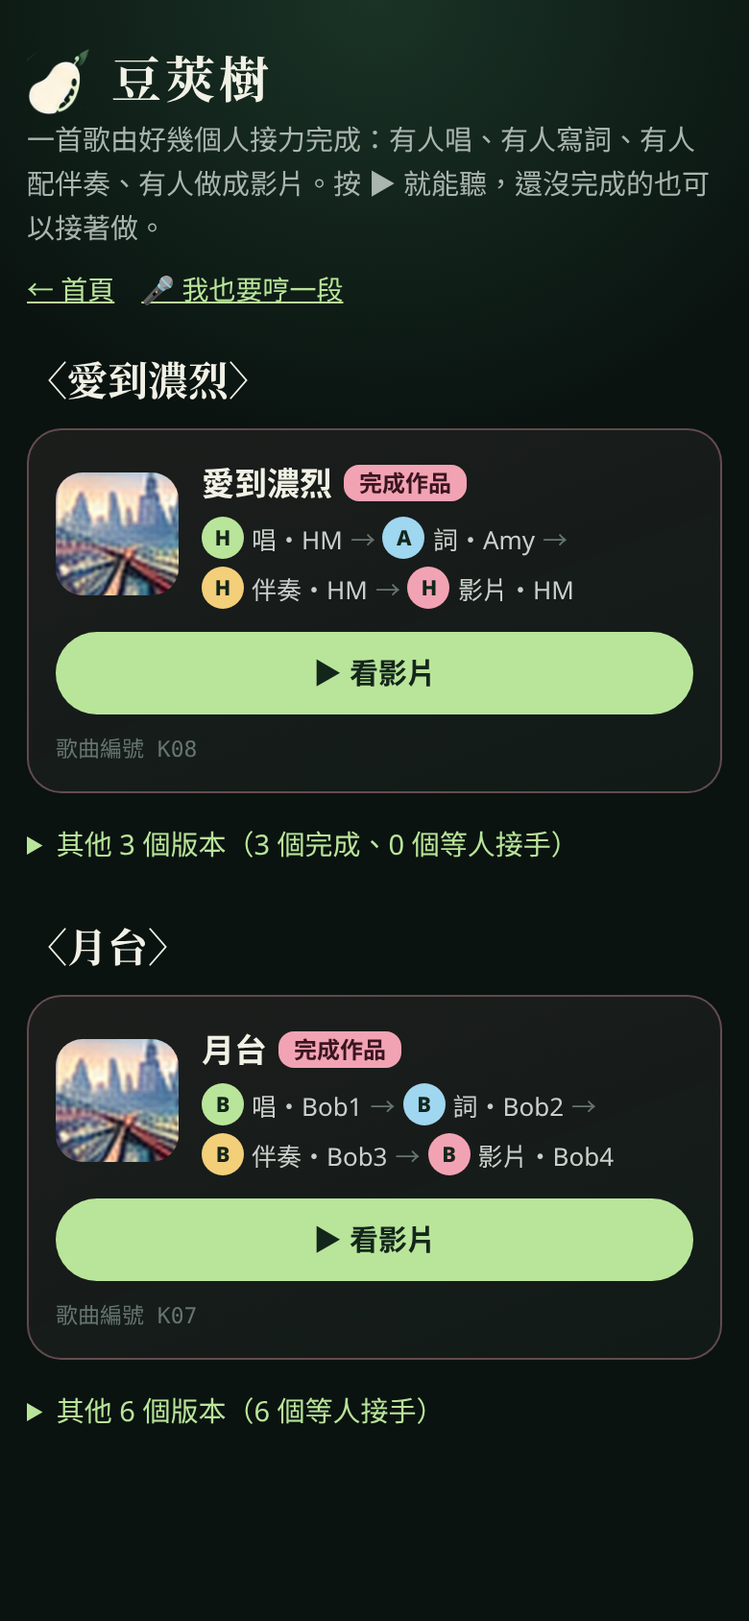
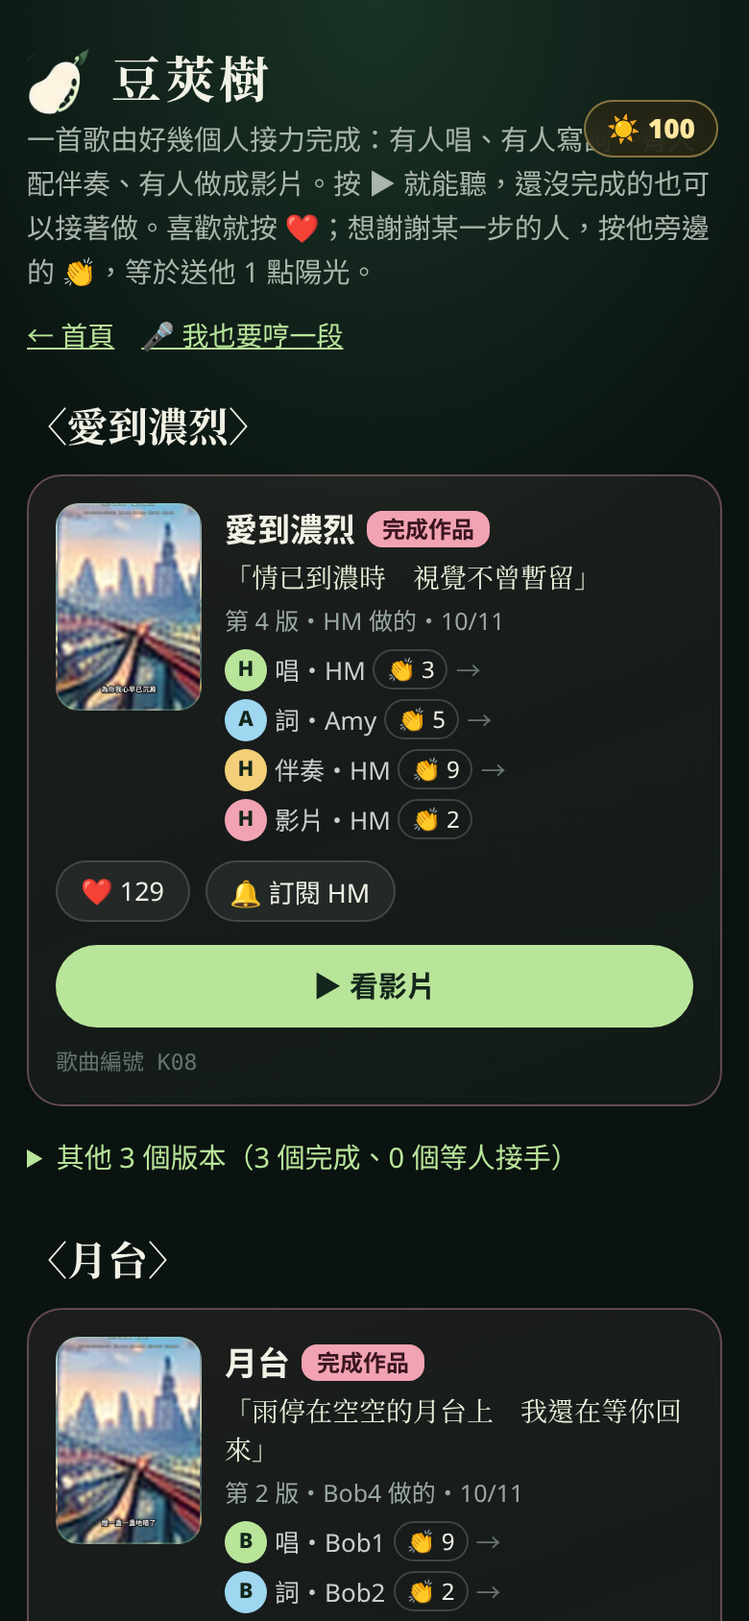
UX finetune round 2 (SD)

diff --git a/voice-ux-finetune/app/index.html b/voice-ux-finetune/app/index.html
@@ -211,7 +211,17 @@ details[open] summary .car{transform:rotate(90deg)}
 button:disabled{opacity:.4}
 .tab .tl{display:none}
 html,body{overflow-x:hidden}#app{overflow:hidden;overflow:clip}
-#v-onboard .logo .t{font-size:26px;white-space:nowrap}
+#v-onboard .logo .t{font-size:26px;white-space:nowrap}#v-onboard .logo{right:110px}
+.share{display:grid;grid-template-columns:repeat(4,1fr);gap:14px 6px;margin-top:4px}
+.sh{display:flex;flex-direction:column;align-items:center;gap:6px;font-size:11.5px;color:#D6DDD8}
+.sh i{width:48px;height:48px;border-radius:50%;display:flex;align-items:center;justify-content:center;font-style:normal;font-weight:800;font-size:15px;color:#fff;box-shadow:0 0 0 2px rgba(185,229,154,.18)}
+.wmprev{display:flex;gap:12px;align-items:center;margin-top:14px;padding:10px;border-radius:14px;background:rgba(185,229,154,.06);border:1px solid rgba(185,229,154,.2)}
+.wmv{width:74px;height:132px;border-radius:10px;flex:none;position:relative;overflow:hidden;background:#1d2a22 center/cover}
+.wmv .strip{position:absolute;top:0;left:0;right:0;background:rgba(0,0,0,.55);font-size:6.5px;line-height:1.3;padding:2px 3px;color:#fff;white-space:nowrap;overflow:hidden}
+.wmv .qr{position:absolute;right:4px;bottom:4px;width:20px;height:20px;background:#fff;border:3px solid #fff;background-image:repeating-linear-gradient(90deg,#000 0 3px,#fff 3px 5px),repeating-linear-gradient(0deg,#000 0 3px,#fff 3px 6px);background-blend-mode:multiply}
+.sunchip{border-color:rgba(255,214,120,.45)!important;color:#FFE7A0;font-weight:700;background:rgba(40,36,16,.6)!important}
+.stats{display:flex;gap:8px;margin-top:10px;flex-wrap:wrap}.stats span{font-size:13px;padding:5px 10px;border-radius:14px;background:rgba(255,255,255,.05);border:1px solid var(--bd)}
+.recent{display:flex;flex-direction:column;gap:8px;font-size:13.5px}.recent div{display:flex;gap:8px;align-items:flex-start}.recent i{font-style:normal;width:22px;text-align:center}.recent small{color:var(--mute);margin-left:auto;white-space:nowrap}
 .sheet a.btn{color:var(--fg)}
 .empty{text-align:center;padding:22px 16px;border:1px dashed rgba(185,229,154,.35);border-radius:18px;margin-top:12px;background:rgba(185,229,154,.05)}
 .empty .e-ic{font-size:34px}.empty .e-t{font-size:17px;font-weight:700;margin:6px 0 4px}.empty .e-s{font-size:14px;color:var(--mute);margin-bottom:12px;line-height:1.6}
@@ -411,12 +421,24 @@ html,body{overflow-x:hidden}#app{overflow:hidden;overflow:clip}
     </div>
    </div>
       <div class="card" id="shareCard">
-    <div class="sec">分享到短影音</div>
-    <div class="sub" style="font-size:13.5px;margin:0">影片上方會有「哼哼」小字和作品連結，片尾有 QR Code，看到的人可以點進來聽更多。</div>
-    <div class="shares" id="shares"><button class="shr" data-shr="tiktok"><b>🎵</b>抖音／TikTok</button><button class="shr" data-shr="reels"><b>📸</b>IG Reels</button><button class="shr" data-shr="shorts"><b>▶</b>YT Shorts</button><button class="shr" data-shr="line"><b>💬</b>LINE</button><button class="shr" data-shr="copy"><b>🔗</b>複製連結</button><button class="shr" data-shr="land"><b>👀</b>預覽作品頁</button></div>
+        <div class="sec">分享到</div>
+    <div class="share" id="shares">
+     <button class="sh" data-shr="line"><i style="background:#06C755">LINE</i>LINE</button>
+     <button class="sh" data-shr="ig"><i style="background:radial-gradient(circle at 30% 110%,#FFD776,#F3574F 45%,#C33DA7 70%,#6A4BD8)"><svg width="22" height="22" viewBox="0 0 24 24" fill="none" stroke="#fff" stroke-width="2"><rect x="3.5" y="3.5" width="17" height="17" rx="5"/><circle cx="12" cy="12" r="4"/><circle cx="17.2" cy="6.8" r="1" fill="#fff"/></svg></i>Instagram</button>
+     <button class="sh" data-shr="threads"><i style="background:#111;border:1px solid #333;font-size:22px">@</i>Threads</button>
+     <button class="sh" data-shr="fb"><i style="background:#1877F2;font-size:24px;font-family:Arial">f</i>Facebook</button>
+     <button class="sh" data-shr="x"><i style="background:#111;border:1px solid #333;font-size:18px;font-family:Arial">𝕏</i>X</button>
+     <button class="sh" data-shr="yt"><i style="background:#FF0033"><svg width="20" height="20" viewBox="0 0 24 24"><path d="M8 5.5v13l11-6.5z" fill="#fff"/></svg></i>YouTube</button>
+     <button class="sh" data-shr="copy"><i style="background:rgba(255,255,255,.1);border:1px solid rgba(255,255,255,.2)"><svg width="20" height="20" viewBox="0 0 24 24" fill="none" stroke="#fff" stroke-width="2" stroke-linecap="round"><path d="M10 14a4 4 0 0 0 5.7 0l3-3a4 4 0 0 0-5.7-5.7l-1 1M14 10a4 4 0 0 0-5.7 0l-3 3a4 4 0 0 0 5.7 5.7l1-1"/></svg></i>複製連結</button>
+     <button class="sh" data-shr="land"><i style="background:rgba(185,229,154,.12);border:1px solid rgba(185,229,154,.4);font-size:18px">👀</i>預覽分享頁</button>
+    </div>
+    <div class="note"><span>🔗</span><span>分享連結會打開作品頁，大家可以聽更多。</span></div>
+    <div class="note"><span>ⓘ</span><span>第一次分享到 IG / Threads / FB / X / YouTube 會請你連結帳號，只需要一次。</span></div>
+    <div class="wmprev"><div class="wmv" style="background-image:url(img/th1.jpg)"><div class="strip" data-wm>哼哼・豆莢浪歌</div><div class="qr"></div></div><div style="font-size:12.5px;color:#C9D0CB;line-height:1.6"><b style="color:var(--fg)">浮水印預覽</b><br>上方細條：哼哼＋原唱＋成品＋作品連結<br>片尾 2 秒：放大 QR Code「掃碼聽更多」</div></div>
+    <div class="stats" id="songStats"><span>❤ 0 位聽眾</span><span>👏 0 位創作者</span><span>🔔 0 人訂閱你</span></div>
     <button class="btn mint" id="publish" style="height:54px;margin-top:14px">🌱 發布到豆莢樹</button>
     <div class="note" style="font-size:12px"><span>ⓘ</span><span>測試版：發布會先把作品存到你的手機。</span></div>
-    <details><summary><span class="car">›</span>參與的人</summary><div class="credits" id="credits"></div></details>
+    <div class="credits" id="credits"></div>
    </div>
   </div>
  </section>
@@ -448,9 +470,17 @@ html,body{overflow-x:hidden}#app{overflow:hidden;overflow:clip}
  <!-- 我的豆莢 panel -->
  <div class="panel" id="panel"><div class="sheet">
   <div style="display:flex;justify-content:space-between;align-items:center"><div class="h1" style="font-size:22px">我的豆莢</div><button class="back" id="closePanel" style="width:32px;height:32px"><svg width="20" height="20" viewBox="0 0 24 24" fill="none" stroke="#F1F1E6" stroke-width="2" stroke-linecap="round"><path d="M6 6l12 12M18 6L6 18"/></svg></button></div>
-    <div class="card"><div class="sec">☀ 陽光 <b id="sunN" style="color:#FFE7A0;font-size:20px">100</b><span class="r" style="font-size:12px;color:var(--mute)">創作、幫別人都會得到</span></div>
+    <div class="card"><div class="sec">☀ 陽光 <b id="sunN" class="sunv" style="color:#FFE7A0;font-size:20px">100</b><button class="r link" data-sun style="font-size:12px;color:var(--mute)">這是什麼？</button></div>
    <div style="font-size:14px">目前等級：<b id="lvlName" style="color:#DDF2CC">豆子</b></div>
    <div class="lvl" id="lvl"><span class="on">豆子</span><span>豆苗</span><span>豆藤</span><span>豆莢</span><span>天空之藤</span></div></div>
+    <button class="mini" id="certDemo" style="margin-top:8px">🎓 看升級證書示範</button>
+  <div class="card"><div class="sec">最近獲得</div><div class="recent" id="recent">
+   <div><i>❤</i><span>有 12 位聽眾喜歡〈夏天的味道〉</span><small>今天</small></div>
+   <div><i>👏</i><span>阿米 給你的「唱」拍手</span><small>今天</small></div>
+   <div><i>🔔</i><span>豆豆 訂閱了你</span><small>昨天</small></div>
+   <div><i>☀</i><span>幫〈月台〉寫詞 +10 陽光</span><small>昨天</small></div>
+   <div><i>☀</i><span>新朋友見面禮 +100 陽光</span><small>10/10</small></div></div>
+   <div class="stats"><span>❤ 230</span><span>👏 18</span><span>🔔 5 人訂閱</span></div></div>
   <div class="ptabs"><button class="on" data-pt="mine">我的作品</button><button data-pt="help">我幫過的</button></div>
   <div class="card" id="ptMine"><div class="sec">這首歌的進度</div><div id="pState" style="font-size:15px;line-height:1.9"></div></div>
   <div class="card hidden" id="ptHelp"><div class="empty" style="margin:0"><div class="e-ic">🤝</div><div class="e-t">還沒有幫過別人</div><div class="e-s">去豆莢樹找一首還沒完成的歌，幫忙寫詞或配伴奏，可以得到陽光。</div></div></div>
@@ -464,7 +494,7 @@ html,body{overflow-x:hidden}#app{overflow:hidden;overflow:clip}
 
 <script src="https://cdn.jsdelivr.net/npm/tone@14.8.49/build/Tone.js"></script>
 <script src="https://cdn.jsdelivr.net/npm/@tonejs/midi@2.0.28/build/Midi.js"></script>
-<script src="v60core.js"></script><script src="accompcore.js"></script><script src="denoise.js"></script><script src="align.js"></script>
+<script src="reward.js"></script><script src="v60core.js"></script><script src="accompcore.js"></script><script src="denoise.js"></script><script src="align.js"></script>
 <script>
 /* 豆莢浪歌 app — real functions wired into the UX shell */
 const $=s=>document.querySelector(s), $$=s=>[...document.querySelectorAll(s)];
@@ -485,9 +515,9 @@ const BEAN='<svg class="bean" viewBox="0 0 46 50"><defs><radialGradient id="bg" 
 $('#tabbar').innerHTML=ICONS.map((ic,i)=>`<button class="tab" data-tab="${i}" aria-label="${LBL[i]}">${BEAN}<span class="ring"><span class="ic" style="width:24px;height:24px">${ic}</span></span><span class="badge"></span></button>`).join('');
 $$('.tab').forEach(b=>b.onclick=()=>go(+b.dataset.tab));
 function toast(t,ms=2400){const e=$('#toast');e.textContent=t;e.classList.add('on');clearTimeout(e._t);e._t=setTimeout(()=>e.classList.remove('on'),ms)}
-function show(id){$$('.view').forEach(v=>v.classList.toggle('on',v.id==='v-'+id));S.view=id;$('#tabbar').style.display=(id==='landing')?'none':'flex'}
+function show(id){$$('.view').forEach(v=>v.classList.toggle('on',v.id==='v-'+id));S.view=id;$$('.sunb').forEach(b=>b.classList.toggle('hidden',id!=='onboard'));$('#tabbar').style.display=(id==='landing')?'none':'flex'}
 function go(i){stopAll();S.bean=i;show('b'+(i+1));syncTabs();emptyStates();if(i===3)checkGate();if(i===1)phInfo();credits()}
-function syncTabs(){$$('.tab').forEach((t,i)=>{t.classList.toggle('on',S.view!=='onboard'?i===S.bean:i===0);t.classList.toggle('done',S.done[i]&&i!==S.bean)});panelState()}
+function syncTabs(){if(window.REWARD){S._got=S._got||[0,0,0,0];S.done.forEach((d,i)=>{if(d&&!S._got[i]){S._got[i]=1;if(S.view!=='onboard'&&!S._loading)REWARD.add(10,['完成「唱」','完成「詞」','完成「伴奏」','完成「影片」'][i])}})}$$('.tab').forEach((t,i)=>{t.classList.toggle('on',S.view!=='onboard'?i===S.bean:i===0);t.classList.toggle('done',S.done[i]&&i!==S.bean)});panelState()}
 function next(){if(S.bean===0&&S.notes)S.done[0]=true;if(S.bean<3)go(S.bean+1)}
 $$('[data-next]').forEach(b=>b.onclick=next);
 $$('[data-skip]').forEach(b=>b.onclick=()=>{toast('先跳過，之後你或別人都能補上');if(S.bean<3)go(S.bean+1)});
@@ -498,6 +528,10 @@ $('#panel').onclick=e=>{if(e.target.id==='panel')$('#panel').classList.remove('o
 function gateOk(){return S.done[0]&&S.done[2]&&(S.done[1]||S.noLyrics)}
 function panelState(){const e=$('#pState');if(!e)return;e.innerHTML=LBL.map((l,i)=>`${S.done[i]?'✅':'⬜'} ${l}${i===1&&S.noLyrics?'（只有哼，不用歌詞）':''}`).join('<br>')+(S.podBy?`<br>接手自：<b>${S.podBy}</b>`:'')}
 $$('[data-goto]').forEach(b=>b.onclick=()=>go(+b.dataset.goto));
+$$('.topbar > div').forEach(d=>d.insertAdjacentHTML('afterbegin','<button class="chip sunchip" data-sun>☀ <b class="sunv">100</b></button>'));
+REWARD.badge($('#app'));REWARD.onChange=()=>{const l=REWARD.level();$('#lvlName').textContent=REWARD.levels[l][0];$$('#lvl span').forEach((e,i)=>e.classList.toggle('on',i===l))};REWARD.sync();
+$('#certDemo').onclick=()=>REWARD.cert(1);
+function wmPrev(){$$('[data-wm]').forEach(e=>e.textContent=wmText())}
 $('#asrBtn').onclick=()=>{if(!S.raw){toast('要先有你唱的錄音，才能聽寫');return}toast('自動聽寫即將推出。聽寫結果可能不準，記得再修改',3500)};
 $$('.ptabs button').forEach(b=>b.onclick=()=>{$$('.ptabs button').forEach(x=>x.classList.toggle('on',x===b));$('#ptMine').classList.toggle('hidden',b.dataset.pt!=='mine');$('#ptHelp').classList.toggle('hidden',b.dataset.pt!=='help')});
 function emptyStates(){$('#b2empty').classList.toggle('hidden',!!S.notes);$('#b3empty').classList.toggle('hidden',!!S.notes)}
@@ -691,15 +725,15 @@ $('#makeVid').onclick=makeVideo;
 $('#dlVid').onclick=()=>S.videoBlob&&dlBlob(S.videoBlob,($('#title').value||'doujia')+'.'+S.videoExt);
 function creditList(){const c=[`♪〈${$('#title').value}〉`];c.push(`唱：${S.singer||S.name||'你'}`);if(S.align.length)c.push(`詞：${S.lyricist||S.name||'你'}`);if(S.acc)c.push(`伴奏：${S.accBy||S.name||'你'}`);c.push(`影片：${S.name||'你'}${S.vox==='resing'?'（重唱）':''}`);
  c.push('鋼琴音色：Salamander Grand Piano by Alexander Holm（CC BY 3.0）','殘響 IR：OpenAIR Library, St Patrick\'s Church Patrington（University of York, CC BY 4.0）','用 豆莢浪歌 製作');return c}
-function credits(){$('#credits').innerHTML=creditList().join(' ・ ')}
+function credits(){$('#credits').innerHTML=creditList().join(' ・ ');wmPrev()}
 credits();
 $('#publish').onclick=()=>{if(!S.videoBlob){toast('先做成影片');return}const pstep=S.podStep||0,pid=S.pod?S.pod+'-000'.repeat(Math.max(0,3-pstep))+'-'+ME.code:'K??-'+ME.code+'-000-000-'+ME.code;const pod={id:pid,display:pid.replace(/n(\d+)/g,'#$1'),note:'正式版由伺服器配發（同人同步驟第二版會變成 #2）',parent:S.pod||null,step:4,author:ME.code,authorName:S.name||'訪客',melody_start:S.offset,intro:{mode:S.introMode||'upload'},created:new Date().toISOString(),
  files:{video:'video.'+S.videoExt},notes:'由網頁發布（模擬）',credits:creditList(),lyrics:S.align,offset:S.offset,noLyrics:S.noLyrics};
  dlBlob(new Blob([JSON.stringify(pod,null,2)],{type:'application/json'}),'pod.json');dlBlob(S.videoBlob,'video.'+S.videoExt);toast('已發布！（測試版：作品先存到你的手機）')};
-const SHR={tiktok:'抖音／TikTok',reels:'IG Reels',shorts:'YouTube Shorts',line:'LINE'};
+const SHR={line:'LINE',ig:'Instagram',threads:'Threads',fb:'Facebook',x:'X',yt:'YouTube'};
 $$('[data-shr]').forEach(b=>b.onclick=async()=>{const k=b.dataset.shr,url='https://'+shortLink();if(k==='land'){show('landing');return}if(k==='copy'){try{await navigator.clipboard.writeText(url)}catch(e){}toast('連結已複製：'+url);return}
  if(!S.videoBlob){toast('先按「做成影片」，再分享');return}const file=new File([S.videoBlob],($('#title').value||'hum')+'.'+S.videoExt,{type:S.videoBlob.type});
- if(navigator.canShare&&navigator.canShare({files:[file]})){try{await navigator.share({files:[file],text:`我的新歌〈${$('#title').value}〉聽更多 → ${url}`});return}catch(e){}}dlBlob(S.videoBlob,file.name);toast(`影片已下載，打開 ${SHR[k]} 上傳就好，記得貼上連結 ${url}`,4000)});
+ if(navigator.canShare&&navigator.canShare({files:[file]})){try{await navigator.share({files:[file],text:`我的新歌〈${$('#title').value}〉聽更多 → ${url}`});return}catch(e){}}if(k!=='line'){toast(`第一次分享到 ${SHR[k]}：先連結帳號（只需一次）`,3000);return}dlBlob(S.videoBlob,file.name);toast(`影片已下載，貼到 LINE 時記得附上連結 ${url}`,4000)});
 let liked=false;$('#likeBtn').onclick=()=>{if(liked)return;liked=true;$('#likeBtn').classList.add('on');$('#likeN').textContent=231;$('#subAsk').classList.remove('hidden')};
 $('#subBtn').onclick=()=>{$('#subBtn').textContent='✓ 已訂閱，有新作會通知你';toast('之後取個名字就能收到通知')};
 $('#moreBtn').onclick=()=>location.href='tree.html';
@@ -709,7 +743,7 @@ $('#contSing').onclick=()=>{stopAll();S.name=S.name||'訪客';resetRec();$('#con
 /* ---- take over a pod from the tree: #pod=<path> ---- */
 async function loadPod(id){const chain=[];let cur=id;
  while(cur){const r=await fetch(`${PODS}${cur}/pod.json`);if(!r.ok)throw new Error('找不到這首歌，可能已經被移除');const p=await r.json();chain.unshift(p);cur=p.parent}
- S.pod=id;S.podChain=chain;S.podStep=chain[chain.length-1].step;S.name=S.name||ME.name||'訪客';S.podBy=chain.map(p=>p.authorName||'匿名').join('、');
+ S._loading=true;S.pod=id;S.podChain=chain;S.podStep=chain[chain.length-1].step;S.name=S.name||ME.name||'訪客';S.podBy=chain.map(p=>p.authorName||'匿名').join('、');
  for(const p of chain){const base=`${PODS}${p.id}/`,f=p.files||{};
   if(p.step===1){if(f.notes)setNotes(await (await fetch(base+f.notes)).json(),true);const au=f.denoised||f.audio;if(au){S.raw=await decode(await (await fetch(base+au)).arrayBuffer());S.useDn=false}S.done[0]=true;S.noLyrics=!!p.noLyrics;$('#b1nolyr').checked=S.noLyrics;S.singer=p.authorName||'匿名';recFinished();$('#b1t').textContent=`${S.singer} 唱的旋律`}
   if(p.step===2&&f.aligned){S.align=await (await fetch(base+f.aligned)).json();$('#lyrics').value=S.align.map(a=>a.text).join('\n');renderAlign();S.done[1]=true;S.lyricist=p.authorName||p.author}
@@ -717,7 +751,7 @@ async function loadPod(id){const chain=[];let cur=id;
   if(p.title)$('#title').value=p.title}
  $$('[data-title]').forEach(x=>x.textContent=$('#title').value);
  $$('[data-podban]').forEach(b=>{b.classList.remove('hidden');b.innerHTML=`你正在接著做〈${$('#title').value}〉・前面有 ${chain.map(p=>p.authorName||'匿名').join('、')} <button class="link" data-goto="0" style="font-size:12.5px">先聽原作 ▶</button>`;b.querySelector('[data-goto]').onclick=()=>go(0)});
- const nxt=[0,1,2,3].find(i=>!S.done[i]&&!(i===1&&S.noLyrics));go(nxt==null?3:nxt);syncTabs();toast(`開始接著做〈${$('#title').value}〉`)}
+ const nxt=[0,1,2,3].find(i=>!S.done[i]&&!(i===1&&S.noLyrics));go(nxt==null?3:nxt);syncTabs();S._got=S.done.map(d=>d?1:0);S._loading=false;toast(`開始接著做〈${$('#title').value}〉`)}
 addEventListener('hashchange',()=>location.reload());
 if(HP.get('pod'))loadPod(HP.get('pod')).catch(e=>{toast(e.message);show('onboard')});else if(HP.has('share'))show('landing');else{show('onboard');syncTabs()}
 </script>

diff --git a/voice-ux-finetune/app/tree.html b/voice-ux-finetune/app/tree.html
@@ -24,35 +24,53 @@ h2.song{font-family:"Noto Serif TC",serif;font-size:21px;margin:22px 0 6px}
 .media{margin-top:10px}.media audio,.media video{width:100%;border-radius:12px}.media video{max-height:420px;background:#000}
 details.more{margin-top:6px}details.more summary{cursor:pointer;color:#B9E59A;font-size:14.5px;padding:6px 0}
 .code{font-size:11.5px;color:#66746E;margin-top:6px;font-family:ui-monospace,monospace}
+.cover{width:76px;height:108px;border-radius:12px;flex:none;background:linear-gradient(160deg,#2f5a40,#12261b 70%,#0A1310);display:flex;align-items:center;justify-content:center;padding:6px;box-sizing:border-box;font-family:"Noto Serif TC",serif;font-size:12px;line-height:1.45;text-align:center;color:#E6F2DA;background-size:cover;background-position:center;border:1px solid rgba(185,229,154,.25);overflow:hidden}
+.top{align-items:flex-start}.first{font-size:14px;color:#E6F2DA;margin-top:4px;font-family:"Noto Serif TC",serif}.meta{font-size:12.5px;color:#9AA8A1;margin-top:2px}
+.clap{background:none;border:1px solid rgba(255,255,255,.18);border-radius:12px;color:#F1F1E6;font-size:12px;padding:1px 6px;cursor:pointer;font-family:inherit}.clap.on{background:rgba(255,214,120,.2);border-color:rgba(255,214,120,.5)}
+.soc{display:flex;gap:8px;margin-top:10px;flex-wrap:wrap}.soc button{background:rgba(255,255,255,.06);border:1px solid rgba(255,255,255,.15);color:#F1F1E6;border-radius:16px;padding:5px 12px;font-size:13.5px;cursor:pointer;font-family:inherit}.soc button.on{background:rgba(242,163,179,.25);border-color:#f2a3b3}
+.toast{position:fixed;left:50%;bottom:30px;transform:translateX(-50%);background:rgba(20,32,27,.96);border:1px solid rgba(185,229,154,.35);padding:10px 16px;border-radius:20px;font-size:13.5px;opacity:0;transition:.3s;z-index:150;pointer-events:none}.toast.on{opacity:1}
 </style></head><body><main>
 <h1><img src="img/logo-pod.png" alt="">豆莢樹</h1>
-<div class="sub">一首歌由好幾個人接力完成：有人唱、有人寫詞、有人配伴奏、有人做成影片。按 ▶ 就能聽，還沒完成的也可以接著做。</div>
+<div class="sub">一首歌由好幾個人接力完成：有人唱、有人寫詞、有人配伴奏、有人做成影片。按 ▶ 就能聽，還沒完成的也可以接著做。喜歡就按 ❤；想謝謝某一步的人，按他旁邊的 👏，等於送他 1 點陽光。</div>
 <div class="nav"><a href="../index.html">← 首頁</a><a href="index.html">🎤 我也要哼一段</a></div>
 <div id="tree">載入中…</div>
 <div id="det" hidden></div>
+<div class="toast" id="toast"></div>
+<script src="reward.js"></script>
 </main>
 <script>
 const $=s=>document.querySelector(s);const ST=['','唱','詞','伴奏','影片'];
 const PODS=location.pathname.includes('voice-ux-finetune')?'../../pods/':'../pods/';
 const esc=s=>String(s??'').replace(/[&<>"]/g,c=>({'&':'&amp;','<':'&lt;','>':'&gt;','"':'&quot;'}[c]));
-let IDX=[];const by=id=>IDX.find(x=>x.id===id);
+let IDX=[],POD={},LYR={};
+function toast(t){const e=$('#toast');e.textContent=t;e.classList.add('on');clearTimeout(e._t);e._t=setTimeout(()=>e.classList.remove('on'),2200)}
+const hash=s=>[...s].reduce((a,c)=>(a*31+c.charCodeAt(0))%9973,7);
+REWARD.badge(document.body,true);const by=id=>IDX.find(x=>x.id===id);
 function chainOf(p){const c=[];while(p){c.unshift(p);p=p.parent?by(p.parent):null}return c}
 function chainHtml(c){const out=[];for(let s=1;s<=4;s++){const p=c.find(x=>x.step===s);if(!p&&s>c[c.length-1].step)break;
- out.push(p?`<span class="who"><span class="av s${s}">${esc((p.authorName||'?').slice(0,1))}</span>${ST[s]}・${esc(p.authorName||'匿名')}</span>`:`<span class="who"><span class="av skip">–</span>${ST[s]}・略過</span>`)}
+ out.push(p?`<span class="who"><span class="av s${s}">${esc((p.authorName||'?').slice(0,1))}</span>${ST[s]}・${esc(p.authorName||'匿名')} <button class="clap" data-clap="${p.id}" title="送 1 點陽光">👏 ${hash(p.id)%9+1}</button></span>`:`<span class="who"><span class="av skip">–</span>${ST[s]}・略過</span>`)}
  return out.join('<span class="arr">→</span>')}
-function card(p,fin){const c=chainOf(p),t=c.map(x=>x.title).filter(Boolean).pop()||'未命名';
- return `<div class="card ${fin?'fin':''}" data-id="${p.id}"><div class="top"><div class="poster" ${fin?`style="background-image:url(${PODS+p.id}/poster.jpg)"`:''}></div><div style="flex:1;min-width:0">
+function firstLine(c){const l=c.find(x=>x.step===2);return l?LYR[l.id]:null}
+function card(p,fin,n){const c=chainOf(p),t=c.map(x=>x.title).filter(Boolean).pop()||'未命名',f=(POD[p.id]||{}).files||{},fl=firstLine(c);
+ const lyric=fl||(c.some(x=>x.step===2)?'':'（只有哼唱）');const d=new Date(p.created);const ds=`${d.getMonth()+1}/${d.getDate()}`;const hearts=fin?hash(p.id)%300+20:hash(p.id)%40;
+ return `<div class="card ${fin?'fin':''}" data-id="${p.id}"><div class="top"><div class="cover" ${f.poster?`style="background-image:url(${PODS+p.id}/${f.poster})"`:''}>${f.poster?'':esc(lyric||'♪')}</div><div style="flex:1;min-width:0">
  <div class="tt">${esc(t)}<span class="tag ${fin?'t-fin':'t-wip'}">${fin?'完成作品':'接力中・下一步：'+ST[p.step+1]}</span></div>
+ ${fl?`<div class="first">「${esc(fl)}」</div>`:''}<div class="meta">第 ${n} 版・${esc(p.authorName||'匿名')} 做的・${ds}</div>
  <div class="chain">${chainHtml(c)}</div></div></div>
+ <div class="soc"><button data-heart="${hearts}">❤ ${hearts}</button><button data-sub="${esc(c[0].authorName||'作者')}">🔔 訂閱 ${esc(c[0].authorName||'作者')}</button></div>
  <div class="acts"><button class="btn b-main" data-play="${p.id}">▶ ${fin?'看影片':'聽聽看'}</button>${fin?'':`<a class="btn b-sec" href="index.html#pod=${encodeURIComponent(p.id)}">✋ 接著做${ST[p.step+1]}</a>`}</div>
  <div class="media"></div><div class="code">歌曲編號 ${esc(p.song)}</div></div>`}
-fetch(PODS+'index.json',{cache:'no-store'}).then(r=>r.json()).then(j=>{IDX=j.pods;
+fetch(PODS+'index.json',{cache:'no-store'}).then(r=>r.json()).then(async j=>{IDX=j.pods;
+ await Promise.all(IDX.map(async p=>{try{POD[p.id]=await (await fetch(PODS+p.id+'/pod.json')).json();const f=POD[p.id].files||{};if(p.step===2&&f.lyrics){LYR[p.id]=(await (await fetch(PODS+p.id+'/'+f.lyrics)).text()).split('\n').map(x=>x.trim()).filter(Boolean)[0]||null}}catch(e){}}));
  const songs=[...new Set(IDX.map(p=>p.song))].sort().reverse();
  $('#tree').innerHTML=songs.map(s=>{const ps=IDX.filter(p=>p.song===s),leaves=ps.filter(p=>!ps.some(q=>q.parent===p.id));
   const fin=leaves.filter(p=>p.step===4),wip=leaves.filter(p=>p.step<4);const title=ps.map(p=>p.title).find(Boolean)||'未命名';
-  const first=fin[0]||wip[0];const rest=[...fin.slice(1),...wip.filter(p=>p!==first)];
-  return `<h2 class="song">〈${esc(title)}〉</h2>${card(first,first.step===4)}${rest.length?`<details class="more"><summary>其他 ${rest.length} 個版本（${fin.length>1?fin.length-1+' 個完成、':''}${wip.filter(p=>p!==first).length} 個等人接手）</summary>${rest.map(p=>card(p,p.step===4)).join('')}</details>`:''}`}).join('');
+  const first=fin[0]||wip[0];const rest=[...fin.slice(1),...wip.filter(p=>p!==first)];const ver=[...leaves].sort((a,b)=>a.created.localeCompare(b.created));const N=p=>ver.indexOf(p)+1;
+  return `<h2 class="song">〈${esc(title)}〉</h2>${card(first,first.step===4,N(first))}${rest.length?`<details class="more"><summary>其他 ${rest.length} 個版本（${fin.length>1?fin.length-1+' 個完成、':''}${wip.filter(p=>p!==first).length} 個等人接手）</summary>${rest.map(p=>card(p,p.step===4,N(p))).join('')}</details>`:''}`}).join('');
  document.querySelectorAll('[data-play]').forEach(b=>b.onclick=()=>play(b.dataset.play,b));
+ document.querySelectorAll('[data-clap]').forEach(b=>b.onclick=()=>{if(b.classList.contains('on'))return;if(REWARD.sun<1){toast('陽光不夠了');return}b.classList.add('on');b.textContent='👏 '+(+b.textContent.replace(/\D/g,'')+1);REWARD.sun-=1;REWARD.sync();const p=by(b.dataset.clap);toast(`送給 ${p.authorName||'對方'} 1 點陽光 ☀`)});
+ document.querySelectorAll('[data-heart]').forEach(b=>b.onclick=()=>{if(b.classList.contains('on'))return;b.classList.add('on');b.textContent='❤ '+(+b.dataset.heart+1)});
+ document.querySelectorAll('[data-sub]').forEach(b=>b.onclick=()=>{b.classList.add('on');b.textContent='✓ 已訂閱，有新作會通知你'});
  const h=location.hash.slice(1);if(h&&by(h)){const e=document.querySelector(`[data-id="${h}"]`);if(e){e.closest('details')?.setAttribute('open','');e.scrollIntoView()}}
 }).catch(e=>$('#tree').textContent='暫時載入不了作品，請稍後再試。');
 async function play(id,btn){const box=btn.closest('.card').querySelector('.media');if(box.innerHTML){box.innerHTML='';return}

diff --git a/voice-ux-finetune/app/reward.js b/voice-ux-finetune/app/reward.js
@@ -1,0 +1,38 @@
+/* 陽光獎勵（示範資料，UX 用；不接後端） */
+(function(){
+const LV=[['豆子',0],['豆苗',120],['豆藤',300],['豆莢',800],['天空之藤',2000]];
+const R=window.REWARD={sun:+(localStorage.getItem('hum.sun')||100),
+ level(s=R.sun){let l=0;LV.forEach((x,i)=>{if(s>=x[1])l=i});return l},
+ levels:LV};
+const css=`.sunb{position:absolute;top:52px;right:16px;z-index:60;height:30px;padding:0 11px;border-radius:15px;border:1px solid rgba(255,214,120,.45);background:rgba(40,36,16,.75);color:#FFE7A0;font-size:14px;font-weight:700;display:flex;align-items:center;gap:4px;cursor:pointer;font-family:inherit;backdrop-filter:blur(8px)}
+.sunb.fixed{position:fixed}
+.rmask{position:fixed;inset:0;z-index:200;background:rgba(0,0,0,.55);display:none;align-items:center;justify-content:center;padding:20px}
+.rmask.on{display:flex}
+.rcard{width:100%;max-width:340px;background:linear-gradient(170deg,#183326,#0B1411);border:1px solid rgba(185,229,154,.3);border-radius:22px;padding:20px;color:#F1F1E6;font-size:14.5px;line-height:1.7;position:relative;box-shadow:0 20px 50px rgba(0,0,0,.5)}
+.rcard h3{margin:0 0 6px;font-size:20px;font-family:"Noto Serif TC",serif}
+.rcard ul{margin:6px 0;padding-left:20px}.rcard .x{position:absolute;top:10px;right:12px;background:none;border:0;color:#F1F1E6;font-size:22px;cursor:pointer}
+.rlv{display:flex;gap:4px;margin-top:8px}.rlv span{flex:1;text-align:center;font-size:11.5px;padding:6px 2px;border-radius:10px;background:rgba(255,255,255,.05);color:#9AA8A1}.rlv span.on{background:rgba(255,214,120,.2);color:#FFE7A0;font-weight:700}
+.plus{position:fixed;left:50%;top:38%;transform:translate(-50%,-50%) scale(.6);opacity:0;z-index:210;background:linear-gradient(160deg,#FFE9A8,#F6C85F);color:#3a2a05;border-radius:22px;padding:16px 26px;font-size:22px;font-weight:800;text-align:center;box-shadow:0 0 50px rgba(255,214,120,.5);transition:.35s cubic-bezier(.3,1.6,.5,1);pointer-events:none}
+.plus small{display:block;font-size:13px;font-weight:600}.plus.on{opacity:1;transform:translate(-50%,-50%) scale(1)}
+.cert{text-align:center;border:2px solid rgba(255,214,120,.55);background:radial-gradient(120% 80% at 50% 0%,#2a4a33,#0B1411)}
+.cert .big{font-size:56px;line-height:1.1}.cert .lv{font-family:"Noto Serif TC",serif;font-size:30px;color:#FFE7A0;letter-spacing:4px;margin:4px 0}
+.rbtn{display:block;width:100%;margin-top:12px;height:46px;border-radius:23px;border:0;background:#B9E59A;color:#13261B;font-weight:700;font-size:16px;cursor:pointer;font-family:inherit}`;
+document.head.insertAdjacentHTML('beforeend',`<style>${css}</style>`);
+const mask=document.createElement('div');mask.className='rmask';mask.id='rmask';document.body.appendChild(mask);
+mask.onclick=e=>{if(e.target===mask||e.target.closest('.x'))R.close()};
+const plus=document.createElement('div');plus.className='plus';plus.id='rplus';document.body.appendChild(plus);
+R.close=()=>mask.classList.remove('on');
+R.open=html=>{mask.innerHTML=`<div class="rcard">${html}<button class="x" aria-label="關閉">×</button></div>`;mask.classList.add('on')};
+R.lvBar=()=>`<div class="rlv">${LV.map((x,i)=>`<span class="${i===R.level()?'on':''}">${x[0]}</span>`).join('')}</div>`;
+R.info=()=>R.open(`<h3>☀ 陽光</h3>陽光是照在豆芽上的光，讓你的豆子慢慢長大。
+<ul><li>完成一個步驟</li><li>幫別人接歌</li><li>作品被按 ❤、你被訂閱 🔔</li><li>別人送你 👏</li></ul>都會得到陽光。
+陽光可以送給別人，<b>不能買，也不能換成現金</b>。<div style="margin-top:8px">你現在有 <b style="color:#FFE7A0">${R.sun}</b> 點・<b>${LV[R.level()][0]}</b></div>${R.lvBar()}
+<div style="font-size:12px;color:#9AA8A1;margin-top:4px">${LV.slice(1).map(x=>x[0]+' '+x[1]).join('・')}</div>`);
+R.sync=()=>{document.querySelectorAll('.sunv').forEach(e=>e.textContent=R.sun);localStorage.setItem('hum.sun',R.sun);R.onChange&&R.onChange()};
+R.cert=(i)=>R.open(`<div class="cert" style="margin:-20px;padding:24px 20px;border-radius:22px"><div style="font-size:13px;color:#B9E59A;letter-spacing:3px">哼哼・豆莢浪歌　升級證書</div><div class="big">🌱</div><div>恭喜 <b>${(window.S&&S.name)||'你'}</b> 成為</div><div class="lv">${LV[i][0]}</div><div style="font-size:13px;color:#C9D0CB">累積 ${R.sun} 點陽光・${new Date().toLocaleDateString('zh-TW',{timeZone:'Asia/Taipei'})}</div>
+<button class="rbtn" id="certShare">📤 分享證書</button></div>`);
+R.add=(n,why)=>{const before=R.level();R.sun+=n;R.sync();plus.innerHTML=`+${n} ☀ 陽光<small>${why||''}</small>`;plus.classList.add('on');clearTimeout(plus._t);
+ plus._t=setTimeout(()=>{plus.classList.remove('on');const after=R.level();if(after>before)R.cert(after)},1500)};
+document.addEventListener('click',e=>{if(e.target.closest('[data-sun]'))R.info();if(e.target.id==='certShare'){const t='我在哼哼・豆莢浪歌升級了！';if(navigator.share)navigator.share({text:t}).catch(()=>{});else{navigator.clipboard&&navigator.clipboard.writeText(t).catch(()=>{});e.target.textContent='✓ 已複製，可以貼到社群'}}});
+R.badge=(parent,fixed)=>{const b=document.createElement('button');b.className='sunb'+(fixed?' fixed':'');b.dataset.sun='';if(!document.getElementById('sunBadge'))b.id='sunBadge';b.innerHTML='☀ <b class="sunv"></b>';parent.appendChild(b);R.sync();return b};
+})();

diff --git a/voice-ux-finetune/CHANGES.md b/voice-ux-finetune/CHANGES.md
@@ -67,3 +67,29 @@
 - 修正 #app 會被橫向捲動、畫面整個往左偏的問題（overflow:clip）。
 - 沒有動 v60core.js、accompcore.js、denoise.js、align.js、worker.js；element id 全部保留（新增 b2empty、b3empty、asrBtn、styles、shares、likeBtn、subBtn 等）。
 - tree.html 保留原本的 #det 元素（隱藏不用），避免 id 消失。
+
+### 2026-10-12 第二輪（hm：分享區改回舊版＋獎勵制度＋同名版本封面）
+
+**豆4 分享區改回舊版形式**
+- 用舊版圖示式「分享到」取代上一輪的六格：LINE、Instagram、Threads、Facebook、X、YouTube、複製連結、預覽分享頁，下方「第一次分享到 IG / Threads / FB / X / YouTube 會請你連結帳號，只需要一次」和製作署名。原因：hm 指定。
+- 註：舊版其實在 /workspace/doujia/ux/index.html（app/ 裡沒有這一塊），從那裡照抄樣式（只讀）。
+- 保留：浮水印預覽（小縮圖，上方細條文字跟影片一致＋片尾 QR 示意），和一句「分享連結會打開作品頁，大家可以聽更多」。
+- 圖示外圈加淡綠光暈配合深綠主題。按 IG/Threads/FB/X/YT 跳「先連結帳號（只需一次）」；LINE 下載影片並提示貼連結；預覽分享頁開作品頁。新的按鈕不用 id（用 data-shr），避免和「我的豆莢」裡的 #openLanding 重複。
+- 分享區加「❤ 位聽眾・👏 位創作者・🔔 人訂閱你」統計列。
+
+**獎勵制度（全部示範資料，新檔 app/reward.js，兩頁共用）**
+- 每頁右上角常駐「☀ 100」：開始頁是浮動徽章、四個步驟頁放在頂列第一顆、豆莢樹固定在右上；作品頁不顯示（路人頁不談陽光）。
+- 點了跳說明卡：陽光是照在豆芽上的光；完成步驟、幫別人接歌、被按 ❤／被訂閱、收到 👏 都會得到；可以送人、不能買也不能換現金；列出五個等級和示範門檻（豆苗 120、豆藤 300、豆莢 800、天空之藤 2000，門檻暫定）。
+- 完成每一步跳出金色小卡「+10 ☀ 陽光・完成「○○」」；接手別人進度時不重複送。
+- 升級證書卡：「恭喜○○成為豆苗」＋「📤 分享證書」。陽光跨過門檻會自動跳；我的豆莢有「🎓 看升級證書示範」按鈕。
+- 我的豆莢：陽光數字和等級條會跟著變；加「最近獲得」列表（❤、👏、🔔 新訂閱、☀），下方 ❤／👏／🔔 小計。
+- 豆莢樹：每顆豆旁有 👏（按了送對方 1 點陽光，自己的陽光 −1）；每張卡顯示 ❤ 數（可按）和「🔔 訂閱 原唱」。
+- 作品頁維持只有 ❤ 和「訂閱作者・新作通知」，沒有 👏、沒有陽光。
+
+**豆莢樹同名版本分得出來**
+- 每個版本都有直式封面：有影片封面就用（poster），沒有就是深綠漸層＋第一句歌詞（沒寫詞的顯示「（只有哼唱）」）。
+- 卡片顯示第一句歌詞「……」和「第 N 版・誰做的・日期」（N 依同一首歌各版本的建立時間排序）。
+- 第一句歌詞從該版本的「詞」那一步讀 lyrics.txt（共用 pods/，只讀）。
+
+**其他**
+- 沒有動 5 個 JS；原有 element id 都在、沒有重複 id。新增 id：sunBadge、rmask、rplus、certShare、certDemo、recent、songStats、toast（tree.html）。
